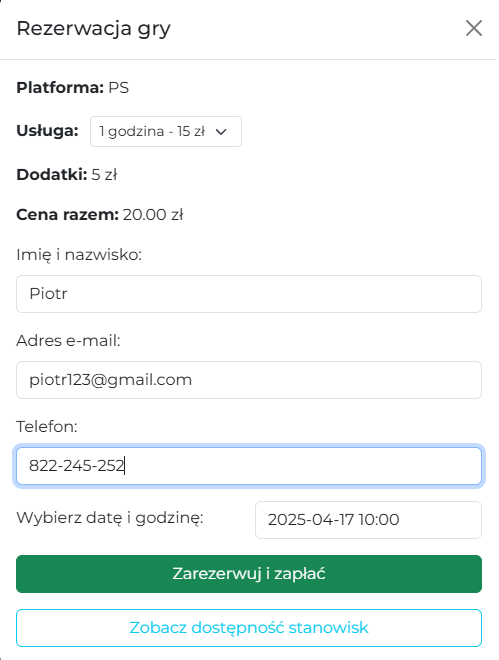
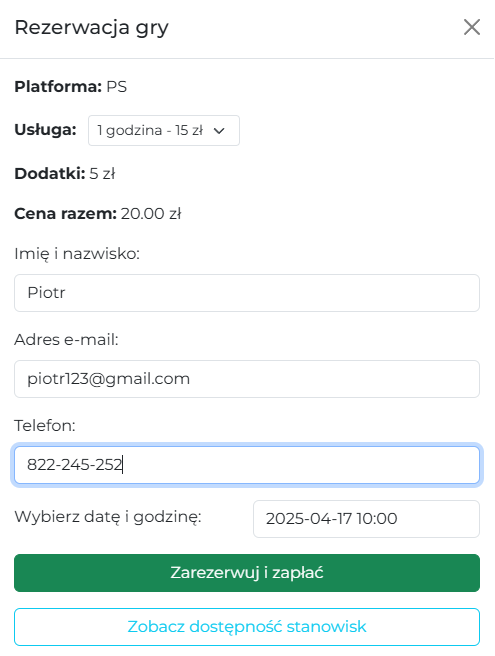
changed readme file

diff --git a/README.md b/README.md
@@ -70,4 +70,4 @@ GameHaven/
 
 🖼 Screenshots
 
-<p align="center"> <img src="assets/screenshots/availability-preview.png" alt="Availability preview" width="700"/> <br/> <em>Availability preview – shows hourly availability per platform</em> </p> <p align="center"> <img src="assets/screenshots/booking-form.png" alt="Booking form" width="700"/> <br/> <em>Booking form – allows users to reserve a time slot</em> </p>
+<p align="center"> <img src="assets/screenshots/availability-preview.png" alt="Availability preview" /> <br/> <em>Availability preview – shows hourly availability per platform</em> </p> <p align="center"> <img src="assets/screenshots/booking-form.png" alt="Booking form" /> <br/> <em>Booking form – allows users to reserve a time slot</em> </p>
